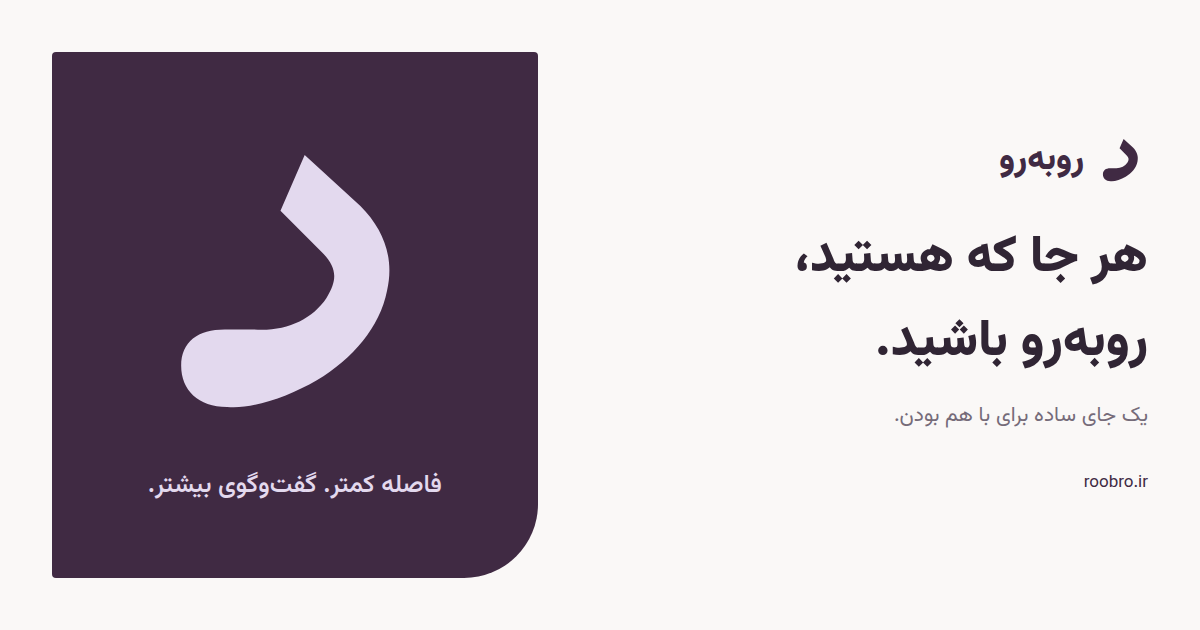
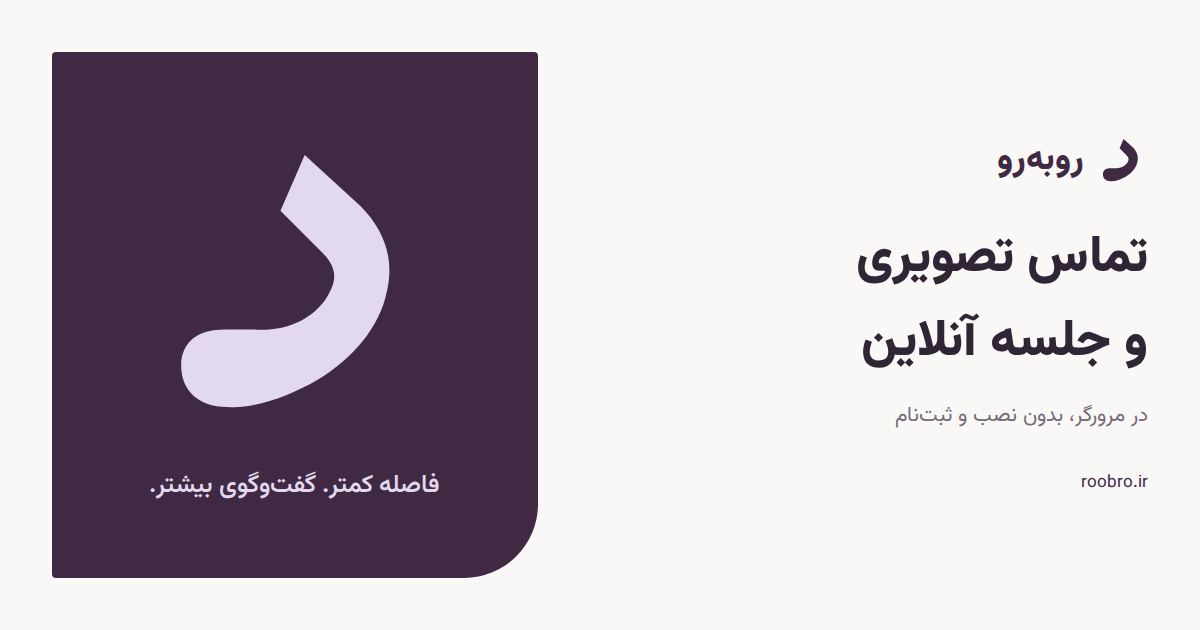
Improve Persian SEO and social sharing previews

diff --git a/frontend/index.html b/frontend/index.html
@@ -3,26 +3,37 @@
   <head>
     <meta charset="UTF-8" />
     <meta name="viewport" content="width=device-width, initial-scale=1.0, viewport-fit=cover" />
-    <title>رو به رو — تماس تصویری روان و طبیعی</title>
+    <title>رو به رو | تماس تصویری و جلسه آنلاین</title>
     <meta name="application-name" content="رو به رو" />
-    <meta name="description" content="تجربهای ساده و متمرکز برای جلسههای تصویری فارسی." />
+    <meta name="description" content="با رو به رو، جلسه آنلاین بسازید، لینک دعوت بفرستید و در مرورگر تماس تصویری برقرار کنید؛ بدون نصب و ثبتنام، همراه با اشتراکگذاری صفحه." />
     <meta name="theme-color" content="#faf8f7" />
-    <meta property="og:title" content="رو به رو — تماس تصویری روان و طبیعی" />
+    <meta property="og:title" content="رو به رو | تماس تصویری و جلسه آنلاین" />
     <meta property="og:site_name" content="رو به رو" />
-    <meta property="og:description" content="تجربهای ساده و متمرکز برای جلسههای تصویری فارسی." />
+    <meta property="og:description" content="با رو به رو، جلسه آنلاین بسازید، لینک دعوت بفرستید و در مرورگر تماس تصویری برقرار کنید؛ بدون نصب و ثبتنام، همراه با اشتراکگذاری صفحه." />
     <meta property="og:type" content="website" />
-    <meta property="og:url" content="https://roobro.ir" />
+    <meta property="og:url" content="https://roobro.ir/" />
     <meta property="og:locale" content="fa_IR" />
-    <meta property="og:image" content="https://roobro.ir/og.png?v=roo-1" />
-    <meta property="og:image:alt" content="رو به رو — تماس تصویری روان و طبیعی" />
+    <meta property="og:image" content="https://roobro.ir/og.png?v=roo-2" />
+    <meta property="og:image:alt" content="رو به رو | تماس تصویری و جلسه آنلاین" />
     <meta property="og:image:width" content="1200" />
     <meta property="og:image:height" content="630" />
     <meta name="twitter:card" content="summary_large_image" />
-    <meta name="twitter:title" content="رو به رو — تماس تصویری روان و طبیعی" />
-    <meta name="twitter:description" content="تجربهای ساده و متمرکز برای جلسههای تصویری فارسی." />
-    <meta name="twitter:image" content="https://roobro.ir/og.png?v=roo-1" />
-    <meta name="twitter:image:alt" content="رو به رو — تماس تصویری روان و طبیعی" />
-    <link rel="canonical" href="https://roobro.ir" />
+    <meta name="twitter:title" content="رو به رو | تماس تصویری و جلسه آنلاین" />
+    <meta name="twitter:description" content="با رو به رو، جلسه آنلاین بسازید، لینک دعوت بفرستید و در مرورگر تماس تصویری برقرار کنید؛ بدون نصب و ثبتنام، همراه با اشتراکگذاری صفحه." />
+    <meta name="twitter:image" content="https://roobro.ir/og.png?v=roo-2" />
+    <meta name="twitter:image:alt" content="رو به رو | تماس تصویری و جلسه آنلاین" />
+    <meta property="og:image:type" content="image/png" />
+    <script type="application/ld+json">
+      {
+        "@context": "https://schema.org",
+        "@type": "WebSite",
+        "name": "رو به رو",
+        "alternateName": ["روبهرو", "Roobro"],
+        "url": "https://roobro.ir/",
+        "inLanguage": "fa"
+      }
+    </script>
+    <link rel="canonical" href="https://roobro.ir/" />
     <link rel="icon" type="image/svg+xml" href="/favicon.svg?v=roo-1" />
     <link rel="icon" type="image/png" sizes="32x32" href="/favicon-32x32.png?v=roo-1" />
     <link rel="icon" type="image/png" sizes="16x16" href="/favicon-16x16.png?v=roo-1" />

diff --git a/frontend/src/routes/__root.tsx b/frontend/src/routes/__root.tsx
@@ -1,4 +1,4 @@
-import { createRootRoute, Outlet } from "@tanstack/react-router"
+import { createRootRoute, Outlet, useLocation } from "@tanstack/react-router"
 import { useEffect } from "react"
 import { useTranslation } from "react-i18next"
 import { Toaster } from "sonner"
@@ -15,6 +15,7 @@ export const Route = createRootRoute({
 
 function RootComponent() {
   const { i18n } = useTranslation()
+  const pathname = useLocation({ select: (location) => location.pathname })
   const language = ((i18n.resolvedLanguage ?? i18n.language) as Language) in languages
     ? ((i18n.resolvedLanguage ?? i18n.language) as Language)
     : "fa"
@@ -23,6 +24,30 @@ function RootComponent() {
     document.documentElement.lang = language
     document.documentElement.dir = languages[language].dir
   }, [language])
+
+  // Keep metadata correct when the app navigates without a full page load.
+  useEffect(() => {
+    const isHome = pathname === "/"
+    let robots = document.querySelector<HTMLMetaElement>('meta[name="robots"]')
+    if (!robots) {
+      robots = document.createElement("meta")
+      robots.name = "robots"
+      document.head.append(robots)
+    }
+    robots.content = isHome ? "index, follow" : "noindex"
+
+    let canonical = document.querySelector<HTMLLinkElement>('link[rel="canonical"]')
+    if (isHome) {
+      if (!canonical) {
+        canonical = document.createElement("link")
+        canonical.rel = "canonical"
+        document.head.append(canonical)
+      }
+      canonical.href = "https://roobro.ir/"
+    } else {
+      canonical?.remove()
+    }
+  }, [pathname])
 
   return (
     <ThemeProvider>

diff --git a/frontend/src/router.tsx b/frontend/src/router.tsx
@@ -1,9 +1,9 @@
-import { createRouter } from "@tanstack/react-router"
+import { createRouter, type RouterHistory } from "@tanstack/react-router"
 
 import { routeTree } from "./routeTree.gen"
 
-export function getRouter() {
-  return createRouter({ routeTree, defaultPreload: "intent", scrollRestoration: true })
+export function getRouter(history?: RouterHistory) {
+  return createRouter({ routeTree, history, defaultPreload: "intent", scrollRestoration: true })
 }
 
 declare module "@tanstack/react-router" {

diff --git a/frontend/src/prerender.tsx b/frontend/src/prerender.tsx
@@ -1,0 +1,10 @@
+import { createMemoryHistory, RouterProvider } from "@tanstack/react-router"
+import { renderToString } from "react-dom/server"
+
+import { getRouter } from "./router"
+
+export async function renderHomePage() {
+  const router = getRouter(createMemoryHistory({ initialEntries: ["/"] }))
+  await router.load()
+  return renderToString(<RouterProvider router={router} />)
+}

diff --git a/frontend/src/main.tsx b/frontend/src/main.tsx
@@ -10,6 +10,8 @@ if (!rootElement) {
   throw new Error("Missing #app root element")
 }
 
+// The build pre-renders the homepage for crawlers and visitors without JS.
+// Mount afresh so saved browser preferences (such as dark mode) apply normally.
 createRoot(rootElement).render(
   <StrictMode>
     <RouterProvider router={getRouter()} />

diff --git a/docs/seo.md b/docs/seo.md
@@ -1,0 +1,49 @@
+# Search and social previews
+
+The production build pre-renders the Persian homepage from the existing React
+route. `dist/index.html` contains its headings, copy and links before JavaScript
+runs. The interactive app mounts over this content in the browser, including
+the visitor's saved theme preference. No browser or rendering server is needed
+during a production build or at runtime.
+
+The build also creates `dist/app.html`, an empty app shell with `noindex` and
+without the homepage canonical or structured data. Caddy serves this shell for
+`/new` and `/meet/*`, with an `X-Robots-Tag: noindex` response header. The app
+updates robots and canonical metadata during client-side navigation too.
+Unknown URLs return HTTP 404. Keep the Caddy route matcher in sync when adding
+new app routes.
+
+`robots.txt` allows crawling so search engines can read the `noindex` directives.
+This is an indexing preference, not access control. The sitemap lists only the
+public homepage; never add individual meetings. Add future public pages only
+after giving them real HTML content and their own canonical URLs.
+
+## Validate locally
+
+From `frontend`, run `bun run seo:check`. This builds the site and checks the
+generated public HTML, private shell, metadata, sitemap, robots and social-image
+dimensions. Use the production Caddy configuration when checking HTTP routing;
+Vite's preview server does not implement Caddy's headers or route rules.
+
+The 1200×630 social card is generated from the brand's HTML/CSS template with
+the local Persian font. See `frontend/brand/README.md` for regeneration. When
+changing it, increment its version in both Open Graph and Twitter image URLs
+in `frontend/index.html` so platforms can fetch the new image.
+
+## After deployment
+
+1. Verify the `roobro.ir` domain property in Google Search Console using its DNS
+   verification record.
+2. Submit `https://roobro.ir/sitemap.xml` under Sitemaps.
+3. Inspect `https://roobro.ir/`, run the live test, confirm that the rendered page
+   contains the Persian homepage, and request indexing.
+4. Inspect a meeting URL and confirm that it is excluded by `noindex`.
+5. Share the homepage in your social apps to check its card. Platforms may cache
+   earlier previews; use their refresh/debug tools where available.
+6. Monitor the Page indexing report and Performance queries for `رو به رو`,
+   `روبهرو` and `Roobro`. Indexing and rankings are Google's decisions and can
+   take time after deployment.
+
+Use the same name and homepage URL on your public profiles and relevant project
+listings. Search Console setup and publishing external profiles are account-owner
+tasks; the repository does not automate them.

diff --git a/frontend/brand/README.md b/frontend/brand/README.md
@@ -37,5 +37,5 @@ Exports in `public/`:
 
 The maskable asset has a full-bleed background and extra clearance for launcher
 masks. The favicon has a lilac field so it stays visible on light and dark tabs.
-The asset URLs currently use `v=roo-1`; increment this version in the HTML and
-generator when replacing these cached assets in a future release.
+The social card uses `v=roo-2`; the other asset URLs use `v=roo-1`. Increment the
+corresponding version when replacing cached assets in a future release.

diff --git a/README.md b/README.md
@@ -16,7 +16,8 @@
   <a href="#local-development">Local development</a> ·
   <a href="#docker-server-deployment">Deploy</a> ·
   <a href="#api">API</a> ·
-  <a href="docs/deployment.md">Deployment guide</a>
+  <a href="docs/deployment.md">Deployment guide</a> ·
+  <a href="docs/seo.md">Search and social previews</a>
 </p>
 
 ![رو به رو — هر جا که هستید، روبهرو باشید](frontend/public/og.png)
